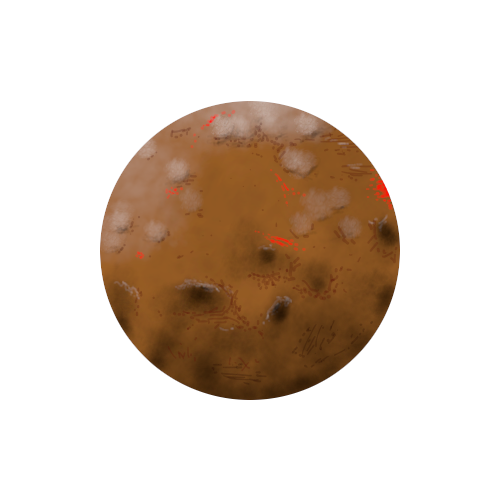
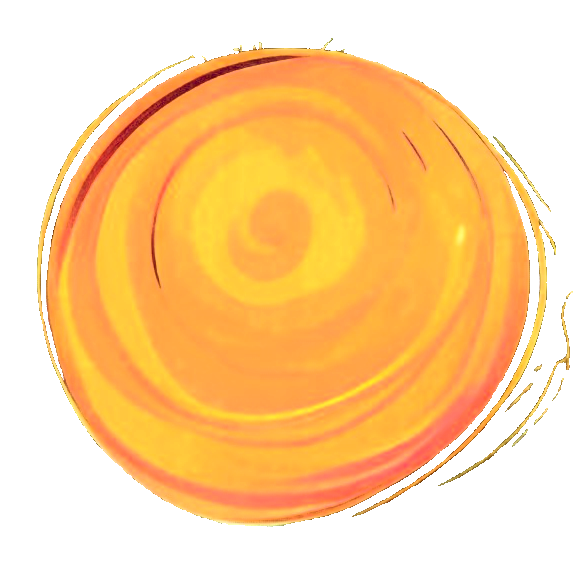
Art style changed, More planets added to map generation

diff --git a/SpaceApes/src/spaceapes/Map.java b/SpaceApes/src/spaceapes/Map.java
@@ -2,6 +2,7 @@ package spaceapes;
 
 import java.util.ArrayList;
 import java.util.List;
+import java.util.Random;
 
 import org.newdawn.slick.Image;
 import org.newdawn.slick.SlickException;
@@ -27,9 +28,9 @@ public class Map {
 
 	public void initBackground() {
 		background.setPosition(Utils.toPixelCoordinates(0, 0)); // Startposition des Hintergrunds (Mitte des Fensters)
-		background.setScale(0.9f); // Skalieren des Hintergrunds
+		background.setScale(0.5f); // Skalieren des Hintergrunds
 		try {
-			background.addComponent(new ImageRenderComponent(new Image("/assets/stars2.jpeg")));
+			background.addComponent(new ImageRenderComponent(new Image("/assets/space1.jpg")));
 		} catch (SlickException e) {
 			System.err.println("Cannot find image for background");
 		}
@@ -45,17 +46,93 @@ public class Map {
 		listOfPlanets.add(planetA); // Speichern in der Planeten Liste des Map Objekts
 		listOfPlanets.add(planetB);
 		try {
-			planetA.addComponent(new ImageRenderComponent(new Image("/assets/planet1.png")));
-			planetB.addComponent(new ImageRenderComponent(new Image("/assets/planet1.png")));
+			addRandomImageToPlanet(planetA, false);
+			addRandomImageToPlanet(planetB, false);
 		} catch (SlickException e) {
 			System.err.println("Cannot find image for planet");
-			;
 		}
 		// Ausgabe zum testen
 		java.lang.System.out
 				.println(planetA.getID() + " -> Radius: " + planetA.getRadius() + " Mass: " + planetA.getMass());
 		java.lang.System.out
 				.println(planetB.getID() + " -> Radius: " + planetB.getRadius() + " Mass: " + planetB.getMass());
+		Random r = new Random();
+		int morePlanetsToAdd = r.nextInt(3); // 0, 1 oder 2
+		// Schleife zum Initialisieren aller restlichen Planeten (ohne Affen)
+		for (int i = 0; i < morePlanetsToAdd; i++) {
+			Vector2f validePosition = findValidePositionForPlanetSpawning();
+			Planet planet_i = new Planet("Planet" + i, validePosition.x, validePosition.y);
+			listOfPlanets.add(planet_i);
+			try {
+				addRandomImageToPlanet(planet_i, true);
+			} catch (SlickException e) {
+				System.err.println("Cannot find image for planet");
+			}
+		}
+	}
+
+	/**
+	 * Fuegt Planeten ein zufaelliges Bild hinzu und skaliert dieses individuell
+	 * 
+	 * @param planet
+	 * @param allowRings true, wenn Planetenbilder mit Ringen verwedet werden
+	 *                   duerfen
+	 * @throws SlickException
+	 */
+	private void addRandomImageToPlanet(Planet planet, boolean allowRings) throws SlickException {
+		Random r = new Random();
+		int imageNumber = r.nextInt(3) + 1; // Integer im Intervall [1, 3]
+		if (allowRings) {
+			imageNumber = r.nextInt(4) + 1; // Integer im Intervall [1, 4]
+		}
+
+		switch (imageNumber) {
+		default: // Eqivalent zu case 1
+			planet.addComponent(new ImageRenderComponent(new Image("/assets/planet1.png")));
+			float ScalingFactorPlanet1 = 0.31f;
+			planet.setScale(planet.getRadius() * ScalingFactorPlanet1);
+			break;
+		case 2:
+			planet.addComponent(new ImageRenderComponent(new Image("/assets/planet2.png")));
+			float ScalingFactorPlanet2 = 0.32f;
+			planet.setScale(planet.getRadius() * ScalingFactorPlanet2);
+			break;
+		case 3:
+			planet.addComponent(new ImageRenderComponent(new Image("/assets/planet3.png")));
+			float ScalingFactorPlanet3 = 0.31f;
+			planet.setScale(planet.getRadius() * ScalingFactorPlanet3);
+			break;
+		case 4:
+			planet.addComponent(new ImageRenderComponent(new Image("/assets/ring_planet1.png")));
+			float ScalingFactorRingPlanet1 = 0.35f;
+			planet.setScale(planet.getRadius() * ScalingFactorRingPlanet1);
+			break;
+		}
+	}
+
+	private Vector2f findValidePositionForPlanetSpawning() {
+		for (int n = 0; n < 100; n++) { // Suche bis zu 100 Zufallspositionen ab
+			Vector2f randomPosition = new Vector2f(Utils.randomFloat(-6.5f, 6.5f), Utils.randomFloat(-4.5f, 4.5f));
+			boolean positionIsValide = true;
+			float safetyMargin = 3f;
+			// Iteriere ueber alle Planeten
+			for (int i = 0; i < listOfPlanets.size(); i++) {
+				Planet p_i = listOfPlanets.get(i);
+				Vector2f vectorToPlanetCenter = new Vector2f(p_i.getCoordinates().x - randomPosition.x,
+						p_i.getCoordinates().y - randomPosition.y);
+				// Test ob randomPosition zu nahe am Planeten i liegt (durch Kreisgleichung)
+				if (Math.pow(vectorToPlanetCenter.x, 2) + Math.pow(vectorToPlanetCenter.y, 2) < Math
+						.pow(p_i.getRadius() + safetyMargin, 2)) {
+					positionIsValide = false; // Ist dies der Fall, ist die Position ungueltig
+				}
+			}
+			if (positionIsValide) {
+				java.lang.System.out.println("n= " + n);
+				return randomPosition; // Wenn gueltige Position gefunden, gib diese zurueck
+			}
+		}
+		// Falls Such Schleife bis zum Ende durch laeuft:
+		throw new RuntimeException("Could not find a valide Position for Planet spawning");
 	}
 
 	/**

diff --git a/SpaceApes/src/spaceapes/Planet.java b/SpaceApes/src/spaceapes/Planet.java
@@ -10,16 +10,13 @@ public class Planet extends Entity {
 	private final Vector2f coordinates; // In Welt-Koordinaten
 	private Ape ape;
 
-	private final float planetScalingFactor = 0.5f; // So justieren, dass ein Planet bei (0,0) und Radius 6 genau den oberen und
-												// unteren Rand des Bildes beruehrt
-
 	/**
 	 * Konstruktor initialisiert Planet mit zufaelligen Eigenschaften: Groesse,
 	 * Masse, Ausrichtung
 	 * 
 	 * @param entityID String
-	 * @param x in Welt-Koordinaten
-	 * @param y in Welt-Koordinaten
+	 * @param x        in Welt-Koordinaten
+	 * @param y        in Welt-Koordinaten
 	 */
 	public Planet(String entityID, float x, float y) {
 		super(entityID);
@@ -28,7 +25,6 @@ public class Planet extends Entity {
 		coordinates = new Vector2f(x, y); // Gespeichert als Welt-Koordinaten
 
 		setPosition(Utils.toPixelCoordinates(coordinates));
-		setScale(radius * planetScalingFactor);
 		setRotation(Utils.randomFloat(-30, 30));
 	}
 
@@ -63,11 +59,10 @@ public class Planet extends Entity {
 		return coordinates;
 	}
 
-
 	public void setApe(Ape a) {
 		ape = a;
 	}
-	
+
 	public Ape getApe() {
 		return ape;
 	}

diff --git a/SpaceApes/src/spaceapes/GameplayState.java b/SpaceApes/src/spaceapes/GameplayState.java
@@ -76,8 +76,9 @@ public class GameplayState extends BasicGameState {
 
 		map.initPlanets();
 		List<float[]> planetData = map.generatePlanetData();
-		entityManager.addEntity(stateID, map.listOfPlanets.get(0));
-		entityManager.addEntity(stateID, map.listOfPlanets.get(1));
+		for (int i = 0; i < map.listOfPlanets.size(); i++) { 
+			entityManager.addEntity(stateID, map.listOfPlanets.get(i));
+		}
 
 		/* Affen */
 
